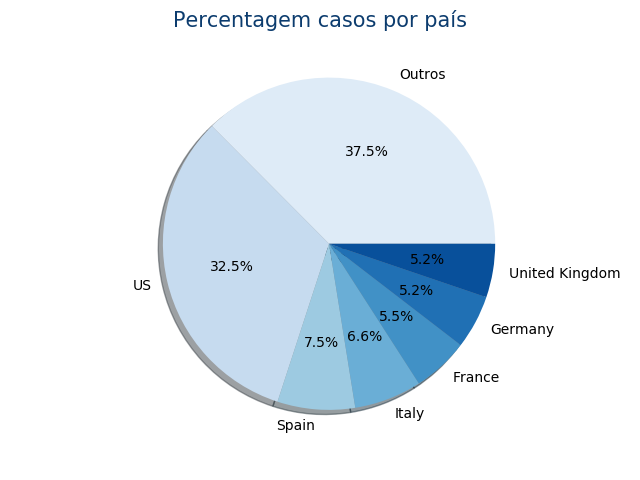
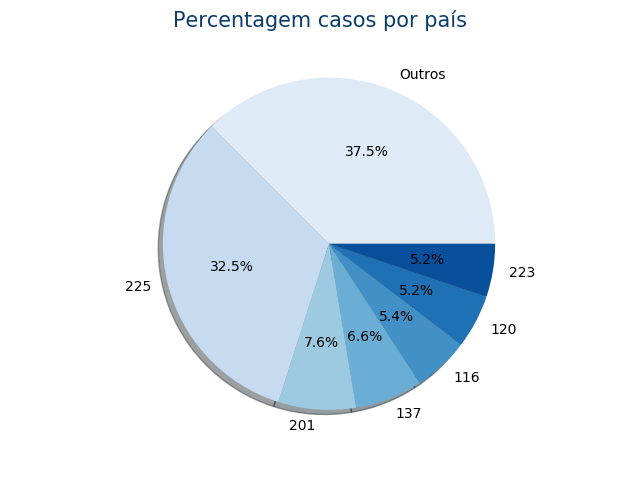
bug fixes

diff --git a/WebApplicationApi/Visualizacao_dados.py b/WebApplicationApi/Visualizacao_dados.py
@@ -31,7 +31,7 @@ confirmados_total=df_confirmados.sum()
 recuperados_total=df_recuperados.sum()
 
 def grafico_pizza(df):
-    #df=df.drop(['Province/State', 'Lat', 'Long'], axis=1).groupby('Country/Region').sum()
+    df=df.drop(['Province/State', 'Lat', 'Long'], axis=1).groupby('Country/Region').sum()
     df2 = df[df.columns[-1]]
     
     df_index=[]
@@ -39,8 +39,8 @@ def grafico_pizza(df):
     df3=pd.DataFrame()
     print(df2)
     
-    #df_total=df_confirmados.drop(columns=['Country/Region','Lat','Long'])
-    confirmados_total=df_confirmados.sum()
+    df_total=df_confirmados.drop(columns=['Country/Region','Lat','Long'])
+    confirmados_total=df_total.sum()
     confirmados_total=max(confirmados_total)
     
     df2=df2.to_frame()
@@ -73,7 +73,7 @@ def grafico_pizza(df):
     fig1.savefig('static/pizza.png')
     #plt.show()
     
-#grafico_pizza(df_confirmados)
+grafico_pizza(df = pd.read_csv('https://raw.githubusercontent.com/CSSEGISandData/COVID-19/master/csse_covid_19_data/csse_covid_19_time_series/time_series_covid19_confirmed_global.csv'))
 
 
 
